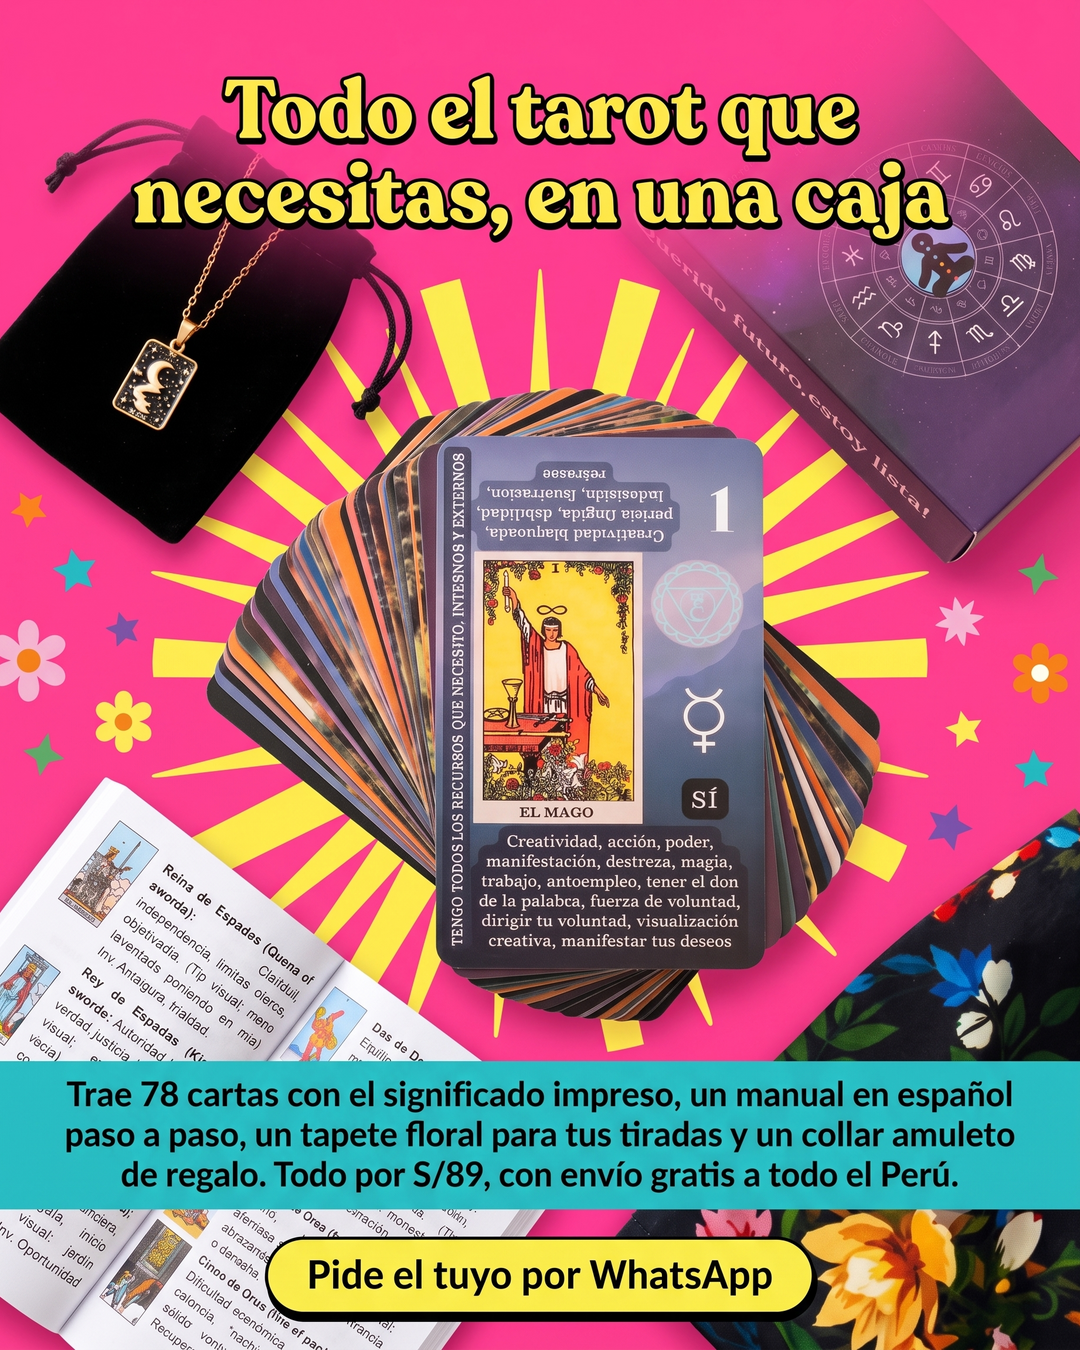
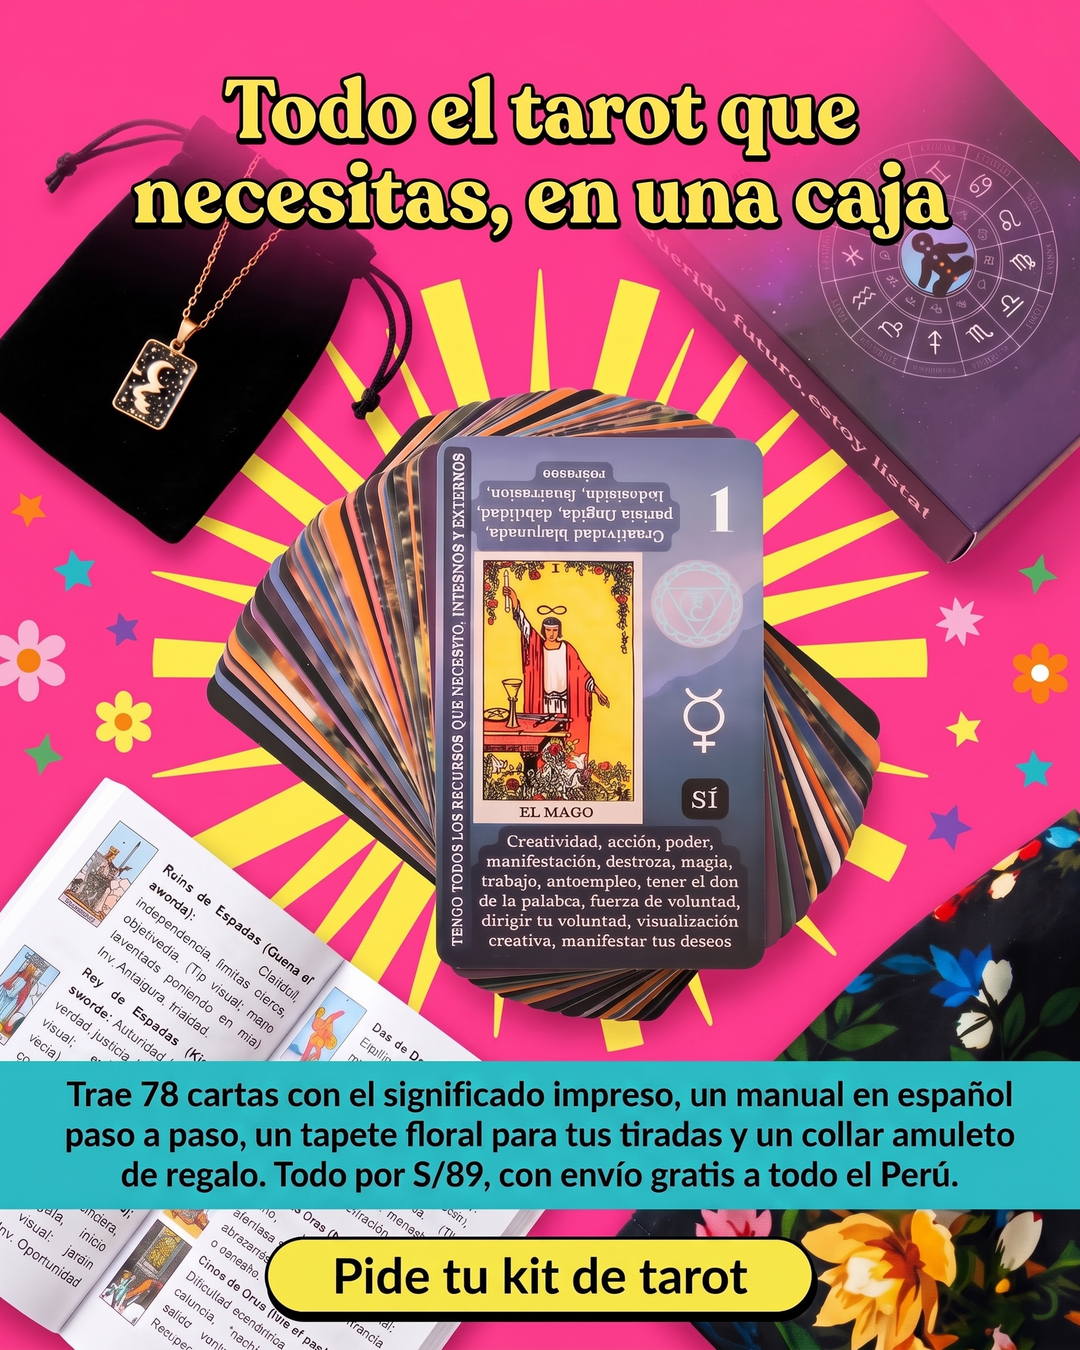
Creativos: retoque de CTA en L001-C01 y L004-C03/C07/C08/C09 (render.mjs --editar)
Claude-Session: https://claude.ai/code/session_01TJcRJEi6YWGjuSJYDFphXm

diff --git a/.claude/skills/creativos/SKILL.md b/.claude/skills/creativos/SKILL.md
@@ -57,6 +57,11 @@ Genera todo lo pendiente. Un JSON ya usado no se vuelve a crear: queda
    - En Prompts, col. J de sus filas → `hecho` (o `error` + motivo en K).
 5. Responde: lotes, cuántas imágenes, costo, problemas en una línea cada uno.
 
+Retoque de una imagen ya hecha (ej. el dueño pide solo cambiar el CTA): pon
+en su concepto de `lote.json` el campo `"editar": "Cambia solo …"` y corre
+`npm run creativos:render -- creativos/lotes/Lnnn --solo Cxx --editar`.
+Después actualiza la fórmula =IMAGE de esa fila en Creativos y Copy Meta.
+
 ## REVISA COMENTARIOS
 
 Lleva las notas y comentarios del dueño (Creativos D–E y Copy Meta M–N) a

diff --git a/docs/MAPA.md b/docs/MAPA.md
@@ -63,6 +63,9 @@ Drive y Google Sheets. Las del asesor → Google Drive.
 
 ## Registro de cambios (lo más nuevo arriba)
 
+- 2026-10-07 · Creativos: `render.mjs --editar` retoca una imagen ya hecha
+  (campo "editar" en lote.json); CTA corregido en L001-C01 y L004-C03/C07/C08/C09.
+
 - 2026-10-06 · Creativos: columna M "Titular (novedoso)" al final de Prompts y
   Ángulos (20 % de titulares evocadores por lote); filas de Creativos, Copy
   Meta y Ángulos ordenadas por avatar; reglas de CTA de compra y de formatos
